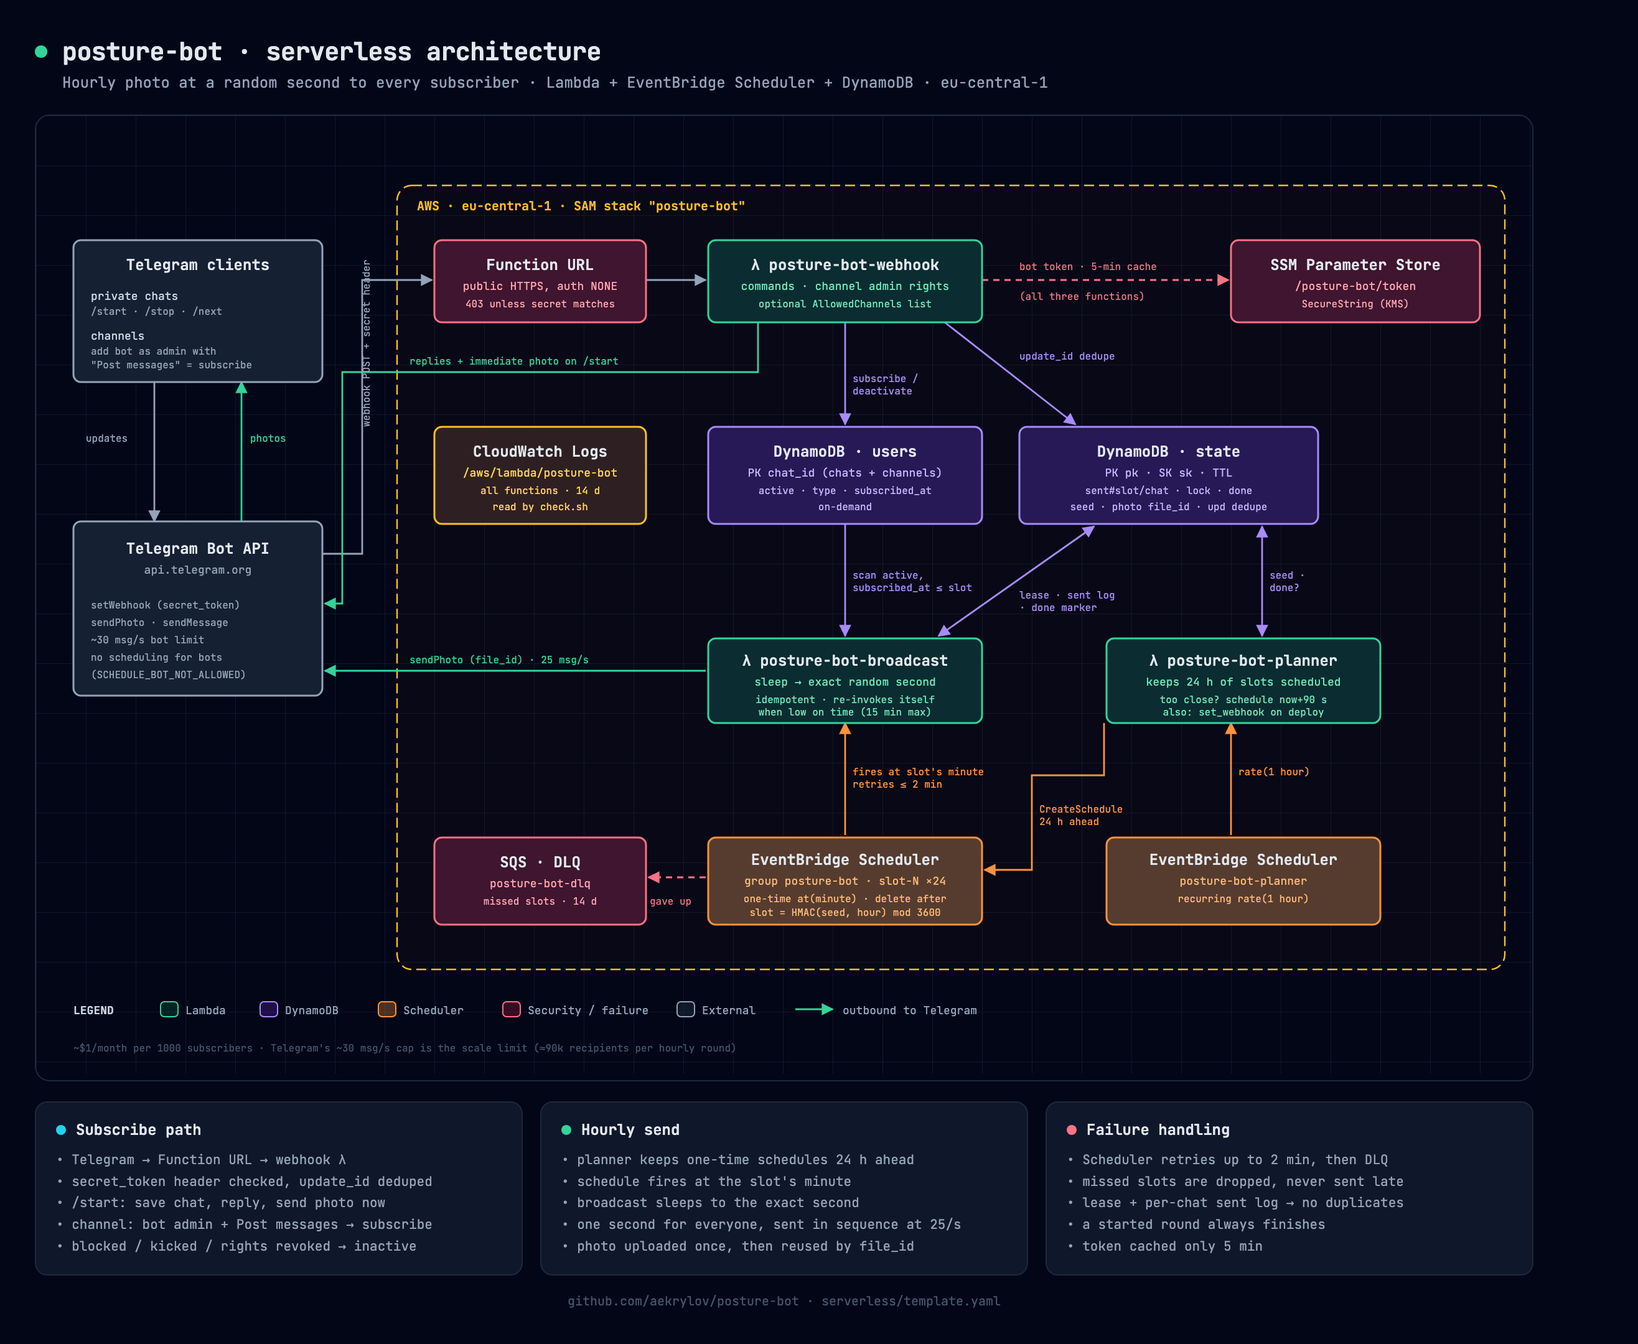
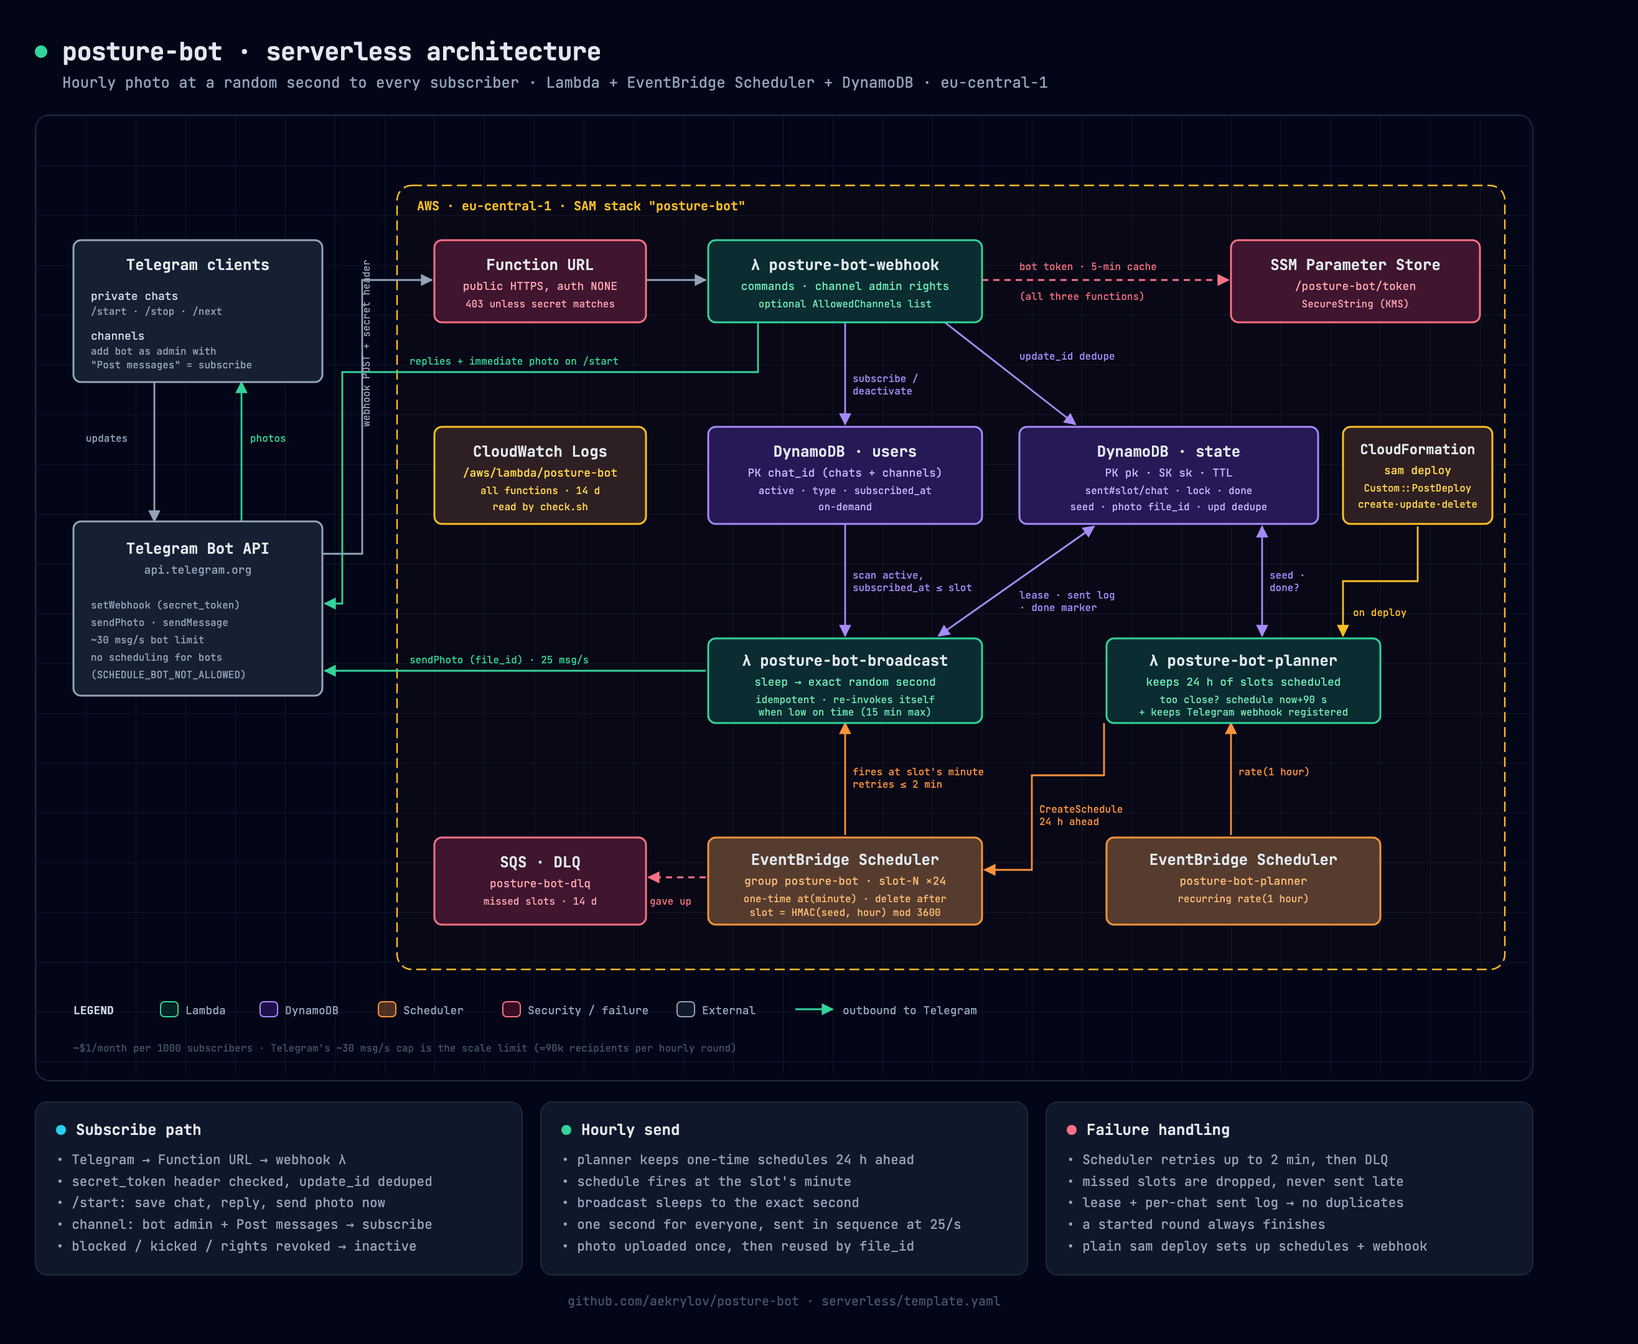
serverless: plain 'sam deploy' sets everything up; drop deploy.sh
- Custom::PostDeploy (backed by the planner) runs on stack create/update:
  schedules the next 24 h of slots and registers the Telegram webhook;
  on stack delete it removes the slot schedules and the webhook. It always
  answers CloudFormation (FAILED on unexpected errors) so stacks never hang.
- Changing CatchupGrace recreates the schedules with the new retry window.
- The hourly planner also keeps the webhook registered (URL, allowed
  updates, or 403s after a token rotation), so storing the token later
  needs no redeploy.
- samconfig.toml carries stack name/region/capabilities.
- README, check.sh hint and architecture diagram updated.

Changed region(s): [[0.81, 0.3102, 0.9347, 0.4032]]

diff --git a/serverless/architecture.html b/serverless/architecture.html
@@ -37,6 +37,7 @@
     <marker id="ag" viewBox="0 0 10 10" refX="9" refY="5" markerWidth="7" markerHeight="7" orient="auto-start-reverse"><path d="M0,0 L10,5 L0,10 z" fill="#34d399"/></marker>
     <marker id="ao" viewBox="0 0 10 10" refX="9" refY="5" markerWidth="7" markerHeight="7" orient="auto-start-reverse"><path d="M0,0 L10,5 L0,10 z" fill="#fb923c"/></marker>
     <marker id="ar" viewBox="0 0 10 10" refX="9" refY="5" markerWidth="7" markerHeight="7" orient="auto-start-reverse"><path d="M0,0 L10,5 L0,10 z" fill="#fb7185"/></marker>
+    <marker id="ay" viewBox="0 0 10 10" refX="9" refY="5" markerWidth="7" markerHeight="7" orient="auto-start-reverse"><path d="M0,0 L10,5 L0,10 z" fill="#fbbf24"/></marker>
     <marker id="av" viewBox="0 0 10 10" refX="9" refY="5" markerWidth="7" markerHeight="7" orient="auto-start-reverse"><path d="M0,0 L10,5 L0,10 z" fill="#a78bfa"/></marker>
   </defs>
   <rect width="1202" height="770" fill="url(#grid)"/>
@@ -76,6 +77,8 @@
     <path d="M960,578 L960,488" stroke="#fb923c" marker-end="url(#ao)"/>
     <!-- planner -> one-time schedules (create) -->
     <path d="M858,488 L858,530 L800,530 L800,606 L762,606" stroke="#fb923c" marker-end="url(#ao)"/>
+    <!-- CloudFormation -> planner -->
+    <path d="M1110,330 L1110,374 L1050,374 L1050,418" stroke="#fbbf24" marker-end="url(#ay)"/>
     <!-- planner <-> state -->
     <path d="M985,418 L985,330" stroke="#a78bfa" marker-start="url(#av)" marker-end="url(#av)"/>
   </g>
@@ -102,6 +105,7 @@
     <text x="966" y="530" fill="#fb923c">rate(1 hour)</text>
     <text x="806" y="560" fill="#fb923c">CreateSchedule</text>
     <text x="806" y="570" fill="#fb923c">24 h ahead</text>
+    <text x="1058" y="402" fill="#fbbf24">on deploy</text>
     <text x="991" y="372" fill="#a78bfa">seed ·</text>
     <text x="991" y="382" fill="#a78bfa">done?</text>
   </g>
@@ -187,7 +191,7 @@
   <text x="970" y="442" text-anchor="middle" fill="#e2e8f0" font-size="12" font-weight="600">λ posture-bot-planner</text>
   <text x="970" y="458" text-anchor="middle" fill="#6ee7b7" font-size="9">keeps 24 h of slots scheduled</text>
   <text x="970" y="472" text-anchor="middle" fill="#6ee7b7" font-size="8">too close? schedule now+90 s</text>
-  <text x="970" y="482" text-anchor="middle" fill="#6ee7b7" font-size="8">also: set_webhook on deploy</text>
+  <text x="970" y="482" text-anchor="middle" fill="#6ee7b7" font-size="8">+ keeps Telegram webhook registered</text>
 
   <!-- one-time schedules -->
   <rect x="540" y="580" width="220" height="70" rx="6" fill="#0f172a"/>
@@ -210,6 +214,14 @@
   <text x="405" y="604" text-anchor="middle" fill="#e2e8f0" font-size="12" font-weight="600">SQS · DLQ</text>
   <text x="405" y="620" text-anchor="middle" fill="#fda4af" font-size="9">posture-bot-dlq</text>
   <text x="405" y="634" text-anchor="middle" fill="#fda4af" font-size="8">missed slots · 14 d</text>
+
+  <!-- CloudFormation custom resource -->
+  <rect x="1050" y="250" width="120" height="78" rx="6" fill="#0f172a"/>
+  <rect x="1050" y="250" width="120" height="78" rx="6" fill="rgba(120,53,15,0.3)" stroke="#fbbf24" stroke-width="1.5"/>
+  <text x="1110" y="272" text-anchor="middle" fill="#e2e8f0" font-size="11" font-weight="600">CloudFormation</text>
+  <text x="1110" y="288" text-anchor="middle" fill="#fcd34d" font-size="9">sam deploy</text>
+  <text x="1110" y="302" text-anchor="middle" fill="#fcd34d" font-size="8">Custom::PostDeploy</text>
+  <text x="1110" y="315" text-anchor="middle" fill="#fcd34d" font-size="8">create·update·delete</text>
 
   <!-- legend -->
   <g font-size="9" fill="#94a3b8" transform="translate(30,712)">
@@ -253,7 +265,7 @@
       <li>• missed slots are dropped, never sent late</li>
       <li>• lease + per-chat sent log → no duplicates</li>
       <li>• a started round always finishes</li>
-      <li>• token cached only 5 min</li>
+      <li>• plain sam deploy sets up schedules + webhook</li>
     </ul>
   </div>
 </div>

diff --git a/serverless/src/app.py b/serverless/src/app.py
@@ -9,7 +9,10 @@ Three handlers share this module:
              hourly slots. A slot too close to schedule at its own minute (only
              right after first deploy) is scheduled SCHEDULE_MARGIN s from now
              instead. Past slots are never re-sent.
-             Also handles {"set_webhook": url} so the token never leaves AWS.
+             Every run also makes sure Telegram's webhook points at WEBHOOK_URL
+             (so storing/rotating the token needs no redeploy), and the planner
+             doubles as a CloudFormation custom resource: `sam deploy` alone
+             schedules slots and registers the webhook; stack delete removes it.
   broadcast  Invoked by a one-time schedule at the minute of the slot; sleeps to
              the exact random second, then sends the photo to every active user.
 
@@ -69,6 +72,8 @@ DISPLAY_TZ = ZoneInfo(E.get("DISPLAY_TZ", "Europe/Berlin"))
 ALLOWED_CHANNELS = {c.strip().lower() for c in E.get("ALLOWED_CHANNELS", "").split(",") if c.strip()}
 PHOTO_PATH = os.path.join(os.path.dirname(os.path.abspath(__file__)), "photo.jpg")
 DAY = 86400
+WEBHOOK_URL = E.get("WEBHOOK_URL", "")  # set on the planner only (avoids a template cycle)
+ALLOWED_UPDATES = ["message", "my_chat_member"]
 
 ddb = boto3.resource("dynamodb")
 users = ddb.Table(USERS_TABLE)
@@ -333,17 +338,89 @@ def _invoke_continuation(slot: int) -> None:
                    Payload=json.dumps({"slot": slot, "continuation": True}).encode())
 
 
+def ensure_webhook(force: bool = False) -> str:
+    """Point Telegram's webhook at WEBHOOK_URL. Never raises: returns a status."""
+    if not WEBHOOK_URL:
+        return "no WEBHOOK_URL"
+    try:
+        token()
+    except ssm.exceptions.ParameterNotFound:
+        log.warning("token %s not stored yet; webhook not registered", TOKEN_PARAM)
+        return "token missing"
+    try:
+        if not force:
+            info = api("getWebhookInfo")
+            if (info.get("url") == WEBHOOK_URL
+                    and sorted(info.get("allowed_updates") or []) == sorted(ALLOWED_UPDATES)
+                    and "403" not in (info.get("last_error_message") or "")):  # 403 = stale secret (token rotated)
+                return "ok"
+        api("setWebhook", {"url": WEBHOOK_URL, "secret_token": webhook_secret(),
+                           "allowed_updates": ALLOWED_UPDATES, "drop_pending_updates": False})
+        log.info("webhook registered: %s", WEBHOOK_URL)
+        return "set"
+    except Exception as e:  # bad token etc. must not break scheduling or the stack
+        log.error("webhook registration failed: %s", e)
+        return f"error: {e}"
+
+
+def delete_slot_schedules() -> int:
+    n = 0
+    for page in scheduler.get_paginator("list_schedules").paginate(GroupName=GROUP, NamePrefix="slot-"):
+        for sch in page["Schedules"]:
+            scheduler.delete_schedule(GroupName=GROUP, Name=sch["Name"])
+            n += 1
+    return n
+
+
+def _cfn_respond(event, context, status: str, reason: str = "", data: dict | None = None) -> None:
+    body = json.dumps({
+        "Status": status, "PhysicalResourceId": "posture-bot-setup",
+        "Reason": (reason or "see CloudWatch log stream " + getattr(context, "log_stream_name", ""))[:900],
+        "StackId": event["StackId"], "RequestId": event["RequestId"],
+        "LogicalResourceId": event["LogicalResourceId"], "Data": data or {}}).encode()
+    req = urllib.request.Request(event["ResponseURL"], data=body, method="PUT",
+                                 headers={"Content-Type": "", "Content-Length": str(len(body))})
+    urllib.request.urlopen(req, timeout=30).read()
+
+
+def _cfn(event, context):
+    """Custom::PostDeploy: runs on create/update of the stack, cleans up on delete.
+    Always answers CloudFormation, or the stack would hang for an hour."""
+    try:
+        kind = event["RequestType"]
+        if kind == "Delete":
+            removed = delete_slot_schedules()
+            hook = "skipped"
+            try:
+                api("deleteWebhook")
+                hook = "deleted"
+            except Exception as e:
+                hook = f"not deleted: {e}"
+            data = {"Schedules": f"{removed} deleted", "Webhook": hook}
+        else:
+            new, old = event.get("ResourceProperties", {}), event.get("OldResourceProperties", {})
+            removed = 0
+            if kind == "Update" and str(new.get("CatchupGrace")) != str(old.get("CatchupGrace")):
+                removed = delete_slot_schedules()  # recreate with the new retry window
+            created = plan(time.time())
+            data = {"Schedules": f"{removed} recreated, {len(created)} created", "Webhook": ensure_webhook(force=True)}
+        log.info("custom resource %s: %s", kind, data)
+        _cfn_respond(event, context, "SUCCESS", f"{data}", data)
+    except Exception as e:
+        log.exception("custom resource failed")
+        _cfn_respond(event, context, "FAILED", f"{type(e).__name__}: {e}")
+
+
 def planner(event, context):
     event = event or {}
-    if event.get("set_webhook"):
-        res = api("setWebhook", {"url": event["set_webhook"], "secret_token": webhook_secret(),
-                                 "allowed_updates": ["message", "my_chat_member"],
-                                 "drop_pending_updates": False})
-        me = api("getMe")
-        log.info("webhook set for @%s", me.get("username"))
-        return {"webhook": res, "bot": me.get("username")}
+    if "RequestType" in event and "ResponseURL" in event:
+        return _cfn(event, context)
+    created = plan(time.time())
+    return {"created": created, "webhook": ensure_webhook()}
 
-    now = time.time()
+
+def plan(now: float) -> list[int]:
+    """Ensure a one-time schedule exists for each of the next LOOKAHEAD slots."""
     existing = set()
     for page in scheduler.get_paginator("list_schedules").paginate(GroupName=GROUP, NamePrefix="slot-"):
         existing |= {s["Name"] for s in page["Schedules"]}
@@ -374,7 +451,7 @@ def planner(event, context):
             if e.response["Error"]["Code"] != "ConflictException":
                 raise
     log.info("planner: created %s, existing %d", created, len(existing))
-    return {"created": created}
+    return created
 
 
 def broadcast(event, context):

diff --git a/serverless/test_local.py b/serverless/test_local.py
@@ -17,15 +17,26 @@ sys.path.insert(0, os.path.join(HERE, "src"))
 import test_e2e as tg  # noqa: E402  fake Telegram server
 
 calls = []
+hook_state = {}
+cfn_responses = []
 
 
 class Fake(tg.H):
+    def do_PUT(self):  # CloudFormation custom-resource response URL
+        cfn_responses.append(json.loads(self.rfile.read(int(self.headers["Content-Length"]))))
+        self.send_response(200); self.send_header("Content-Length", "0"); self.end_headers()
+
     def do_POST(self):
         method = self.path.rsplit("/", 1)[-1]
-        if method == "setWebhook":
-            p = json.loads(self.rfile.read(int(self.headers["Content-Length"])))
-            calls.append(("setWebhook", p))
-            return self.reply({"ok": True, "result": True})
+        if method in ("setWebhook", "getWebhookInfo", "deleteWebhook"):
+            n = int(self.headers.get("Content-Length") or 0)
+            p = json.loads(self.rfile.read(n) or b"{}")
+            calls.append((method, p))
+            if method == "setWebhook":
+                hook_state.clear(); hook_state.update(url=p["url"], allowed_updates=p["allowed_updates"])
+            elif method == "deleteWebhook":
+                hook_state.clear()
+            return self.reply({"ok": True, "result": dict(hook_state) if method == "getWebhookInfo" else True})
         return super().do_POST()
 
 
@@ -40,6 +51,7 @@ os.environ.update({
     "BROADCAST_ARN": "arn:aws:lambda:eu-central-1:123456789012:function:posture-bot-broadcast",
     "DLQ_ARN": "arn:aws:sqs:eu-central-1:123456789012:dlq",
     "ALLOWED_CHANNELS": "@GoodChan, -1003", "SCHEDULE_MARGIN": "2",
+    "WEBHOOK_URL": "https://example.lambda-url.on.aws/",
 })
 
 from moto import mock_aws  # noqa: E402
@@ -136,6 +148,7 @@ with mock_aws():
     from datetime import datetime, timezone
     plan_t = time.time()
     res = app.planner({}, Ctx())
+    assert res["webhook"] == "set" and hook_state["url"] == "https://example.lambda-url.on.aws/", res
     names = {s["Name"] for s in sched.list_schedules(GroupName="posture-bot")["Schedules"]}
     assert res["created"] and names == {f"slot-{s}" for s in res["created"]}, (res, names)
     assert all(app.slot_time(s) > plan_t for s in res["created"]), "scheduled a past slot"
@@ -156,8 +169,10 @@ with mock_aws():
     assert on_minute and pushed, (on_minute, pushed)
     ok(f"planner created {len(res['created'])} at() schedules: {on_minute} at slot minute, "
        f"{pushed} too-close ones pushed +SCHEDULE_MARGIN; none in the past")
-    assert app.planner({}, Ctx())["created"] == []
-    ok("planner is idempotent")
+    calls.clear()
+    r = app.planner({}, Ctx())
+    assert r == {"created": [], "webhook": "ok"} and [m for m, _ in calls] == ["getWebhookInfo"], (r, calls)
+    ok("planner is idempotent; hourly run only checks the webhook when it's already right")
 
     # --- broadcast at the exact second
     s = next(x for x in range(int(time.time() // 6), 10**12) if app.slot_time(x) > time.time() + 1.5)
@@ -227,7 +242,45 @@ with mock_aws():
     ok("/stop, bot-kicked and removed-from-channel deactivate")
     hook(update(22, 2, "/next"))
     assert tg.messages[-1][1].startswith("Next reminder:"), tg.messages[-1]
-    r = app.planner({"set_webhook": "https://example.lambda-url.on.aws/"}, Ctx())
-    assert calls[-1][1]["secret_token"] == secret and calls[-1][1]["url"].startswith("https://"), calls
-    ok("set_webhook registers URL with secret token")
+    # --- CloudFormation custom resource: plain `sam deploy` sets everything up
+    def cfn(kind, grace="4", old_grace=None):
+        ev = {"RequestType": kind, "ResponseURL": f"http://127.0.0.1:{srv.server_port}/cfn-response",
+              "StackId": "stack", "RequestId": f"req-{len(cfn_responses)}", "LogicalResourceId": "PostDeploy",
+              "ResourceProperties": {"CatchupGrace": grace}}
+        if old_grace is not None:
+            ev["OldResourceProperties"] = {"CatchupGrace": old_grace}
+        n = len(cfn_responses)
+        app.planner(ev, Ctx())
+        assert len(cfn_responses) == n + 1, "no response sent to CloudFormation"
+        return cfn_responses[-1]
+
+    for sch in sched.list_schedules(GroupName="posture-bot")["Schedules"]:
+        sched.delete_schedule(GroupName="posture-bot", Name=sch["Name"])
+    hook_state.clear(); calls.clear()
+    r = cfn("Create")
+    n_sched = len(sched.list_schedules(GroupName="posture-bot")["Schedules"])
+    assert r["Status"] == "SUCCESS" and r["PhysicalResourceId"] == "posture-bot-setup" and n_sched > 20, (r, n_sched)
+    assert r["Data"]["Webhook"] == "set" and calls[-1][0] == "setWebhook" and calls[-1][1]["secret_token"] == secret
+    ok(f"custom resource Create: SUCCESS, {n_sched} schedules, webhook set with secret")
+    r = cfn("Update", grace="4", old_grace="4")
+    assert r["Status"] == "SUCCESS" and r["Data"]["Schedules"].startswith("0 recreated"), r
+    r = cfn("Update", grace="60", old_grace="4")
+    assert r["Status"] == "SUCCESS" and r["Data"]["Schedules"].startswith(f"{n_sched} recreated"), r
+    ok("custom resource Update: re-registers webhook; recreates schedules only when CatchupGrace changes")
+    r = cfn("Delete")
+    assert r["Status"] == "SUCCESS" and not hook_state and not sched.list_schedules(GroupName="posture-bot")["Schedules"], r
+    ok("custom resource Delete: schedules removed, webhook deleted")
+    boto3.client("ssm").delete_parameter(Name="/posture-bot/token")
+    app._token = None
+    r = cfn("Create")
+    assert r["Status"] == "SUCCESS" and r["Data"]["Webhook"] == "token missing", r
+    assert app.planner({}, Ctx())["webhook"] == "token missing"
+    boto3.client("ssm").put_parameter(Name="/posture-bot/token", Value="TEST", Type="SecureString")
+    app._token = None
+    assert app.planner({}, Ctx())["webhook"] == "set" and hook_state.get("url")
+    ok("no token yet: deploy still succeeds; hourly planner registers the webhook once the token is stored")
+    app.scheduler.list_schedules = None  # force an unexpected error
+    r = cfn("Create")
+    assert r["Status"] == "FAILED" and "TypeError" in r["Reason"], r
+    ok("unexpected error is reported to CloudFormation as FAILED (stack doesn't hang)")
     print("ALL CHECKS PASSED")

diff --git a/serverless/README.md b/serverless/README.md
@@ -15,19 +15,22 @@ Telegram ──webhook──▶ function URL ──▶ webhook                  
 
 ```sh
 aws ssm put-parameter --name /posture-bot/token --type SecureString --value '<BotFather token>'
-./deploy.sh
+sam deploy
 ```
 
-`deploy.sh` does three things:
+`samconfig.toml` holds the stack name, region and capabilities, so no flags are needed. On every create or update, the `PostDeploy` custom resource runs the planner, which does two things:
 
-- deploys the stack with `sam deploy`
-- runs the planner once
-- registers the Telegram webhook, if the token parameter exists
+- schedules the next 24 hours of slots
+- registers the Telegram webhook from inside AWS, so the token never leaves it
 
-The webhook is registered by the planner Lambda itself, so the token stays inside AWS. To set options, re-run the script with `PARAMS`, for example:
+Deleting the stack (`sam delete`) removes the schedules and the webhook.
+
+If the token isn't stored yet, the deploy still succeeds. The hourly planner registers the webhook within an hour of the token appearing. It also re-registers it if the URL changes, or if the token is rotated and Telegram starts getting 403s.
+
+Options are stack parameters. SAM keeps a parameter's previous value until you override it:
 
 ```sh
-PARAMS="Caption='Выпрями спину' CatchupGrace=300" ./deploy.sh
+sam deploy --parameter-overrides "Caption='Выпрями спину' CatchupGrace=300"
 ```
 
 ## Posting to a channel
@@ -43,7 +46,7 @@ To unsubscribe the channel, remove the bot or take away its "Post messages" righ
 By default, any channel that makes the bot an admin gets subscribed. To limit it to your own channels:
 
 ```sh
-PARAMS="AllowedChannels=@mychannel,-1001234567890" ./deploy.sh
+sam deploy --parameter-overrides "AllowedChannels=@mychannel,-1001234567890"
 ```
 
 ## Outage handling
@@ -51,7 +54,7 @@ PARAMS="AllowedChannels=@mychannel,-1001234567890" ./deploy.sh
 - **Schedules exist well ahead.** One-time schedules are created 24 hours in advance, so the planner can fail for a day without any slot being missed. AWS invokes each one itself, retrying for up to `CatchupGrace` seconds (default 120). After that the event goes to the `posture-bot-dlq` SQS queue.
 - **No late spam.** A slot that can't start within `CatchupGrace` of its time is dropped, never sent late, and the planner never re-sends past slots. A round that has started always finishes, however long it takes.
 - **Too-close slots are pushed out.** If a slot is too close to schedule at its own minute (only right after the first deploy), its schedule is set 90 s from now instead. Lateness is then measured from that new time.
-- **Broadcast is idempotent.** It keeps a per-(slot, chat) delivery log, holds a per-slot lease, and writes a done marker when finished. Scheduler retries and Lambda async retries therefore never cause duplicates.
+- **Broadcast is idempotent.** It keeps a per-(slot, chat) delivery log, holds a per-slot lease, and writes a done marker when finished. Retries resend only to chats without a recorded delivery. The one gap: a crash or timeout between Telegram accepting a photo and the delivery being recorded resends to that one chat.
 - **Slot times are fixed.** Each hour's second is `HMAC(seed, slot) mod 3600`, and the seed is stored in DynamoDB.
 - **Long broadcasts continue.** A broadcast that runs low on Lambda time hands off to a fresh invocation. One invocation sends to about 20k users at 25 msg/s.
 - **New users get a photo immediately.** `/start` sends one right away; it doesn't count as an hourly slot.
